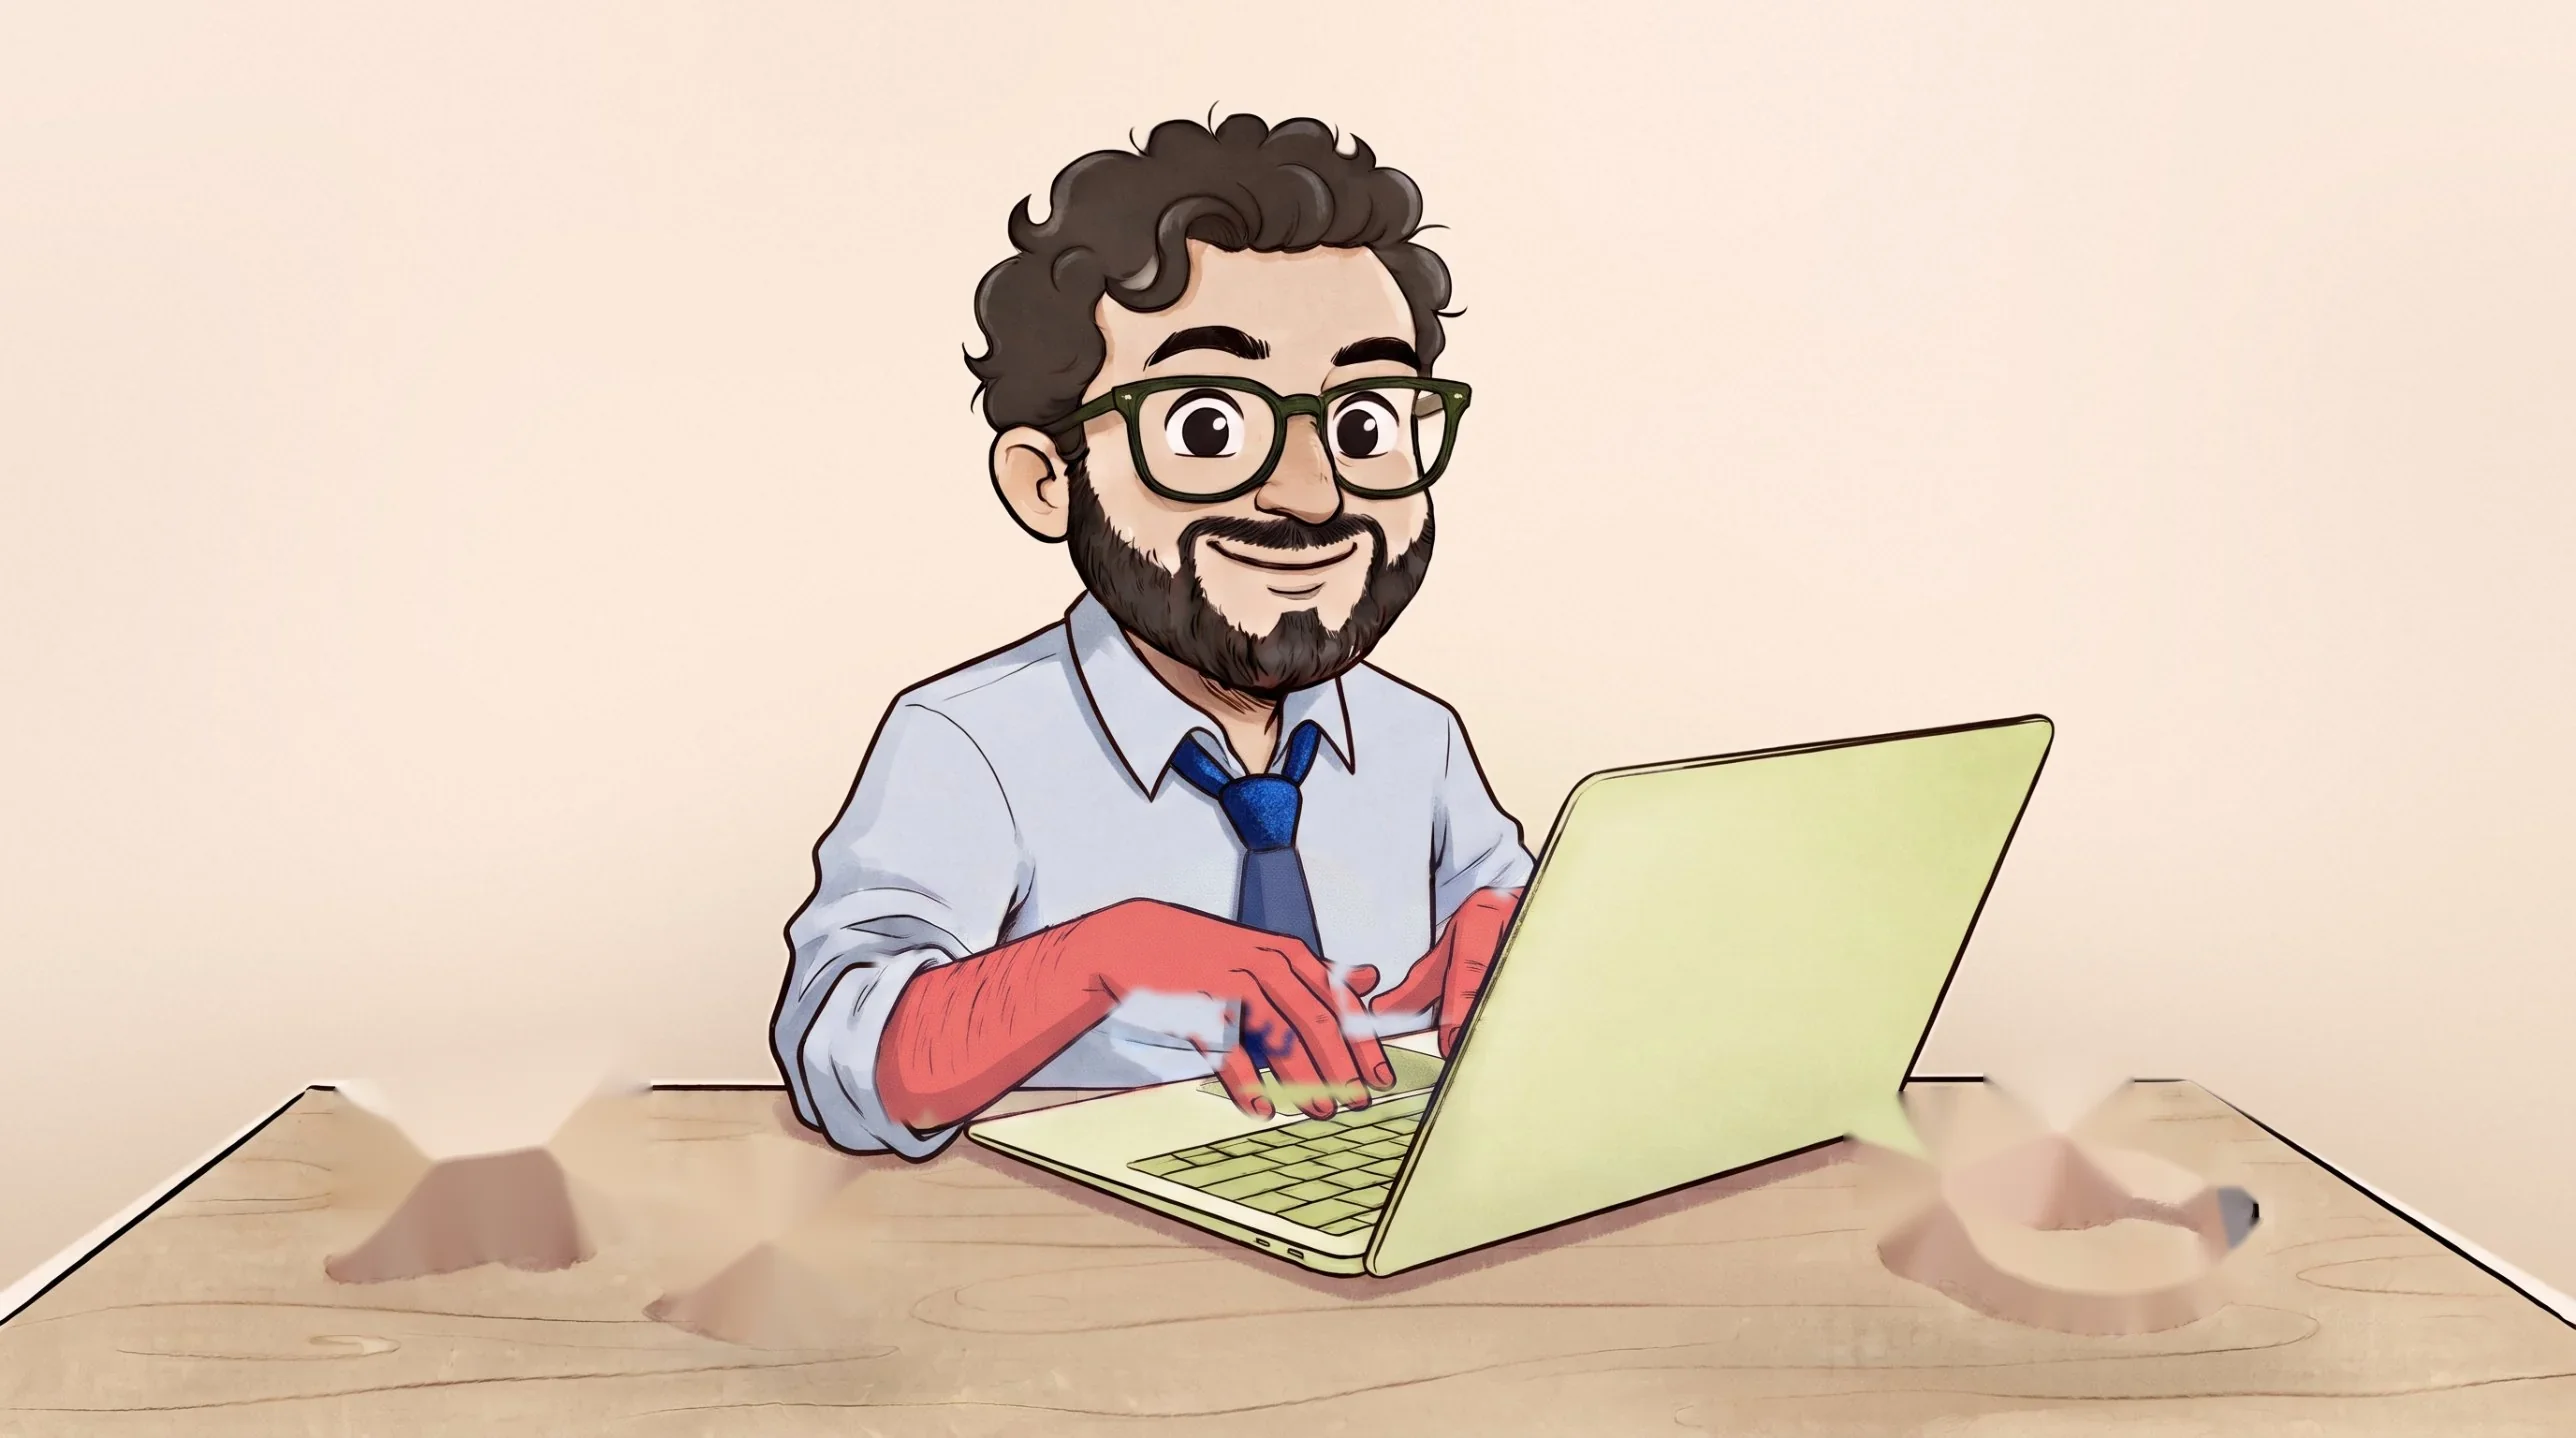
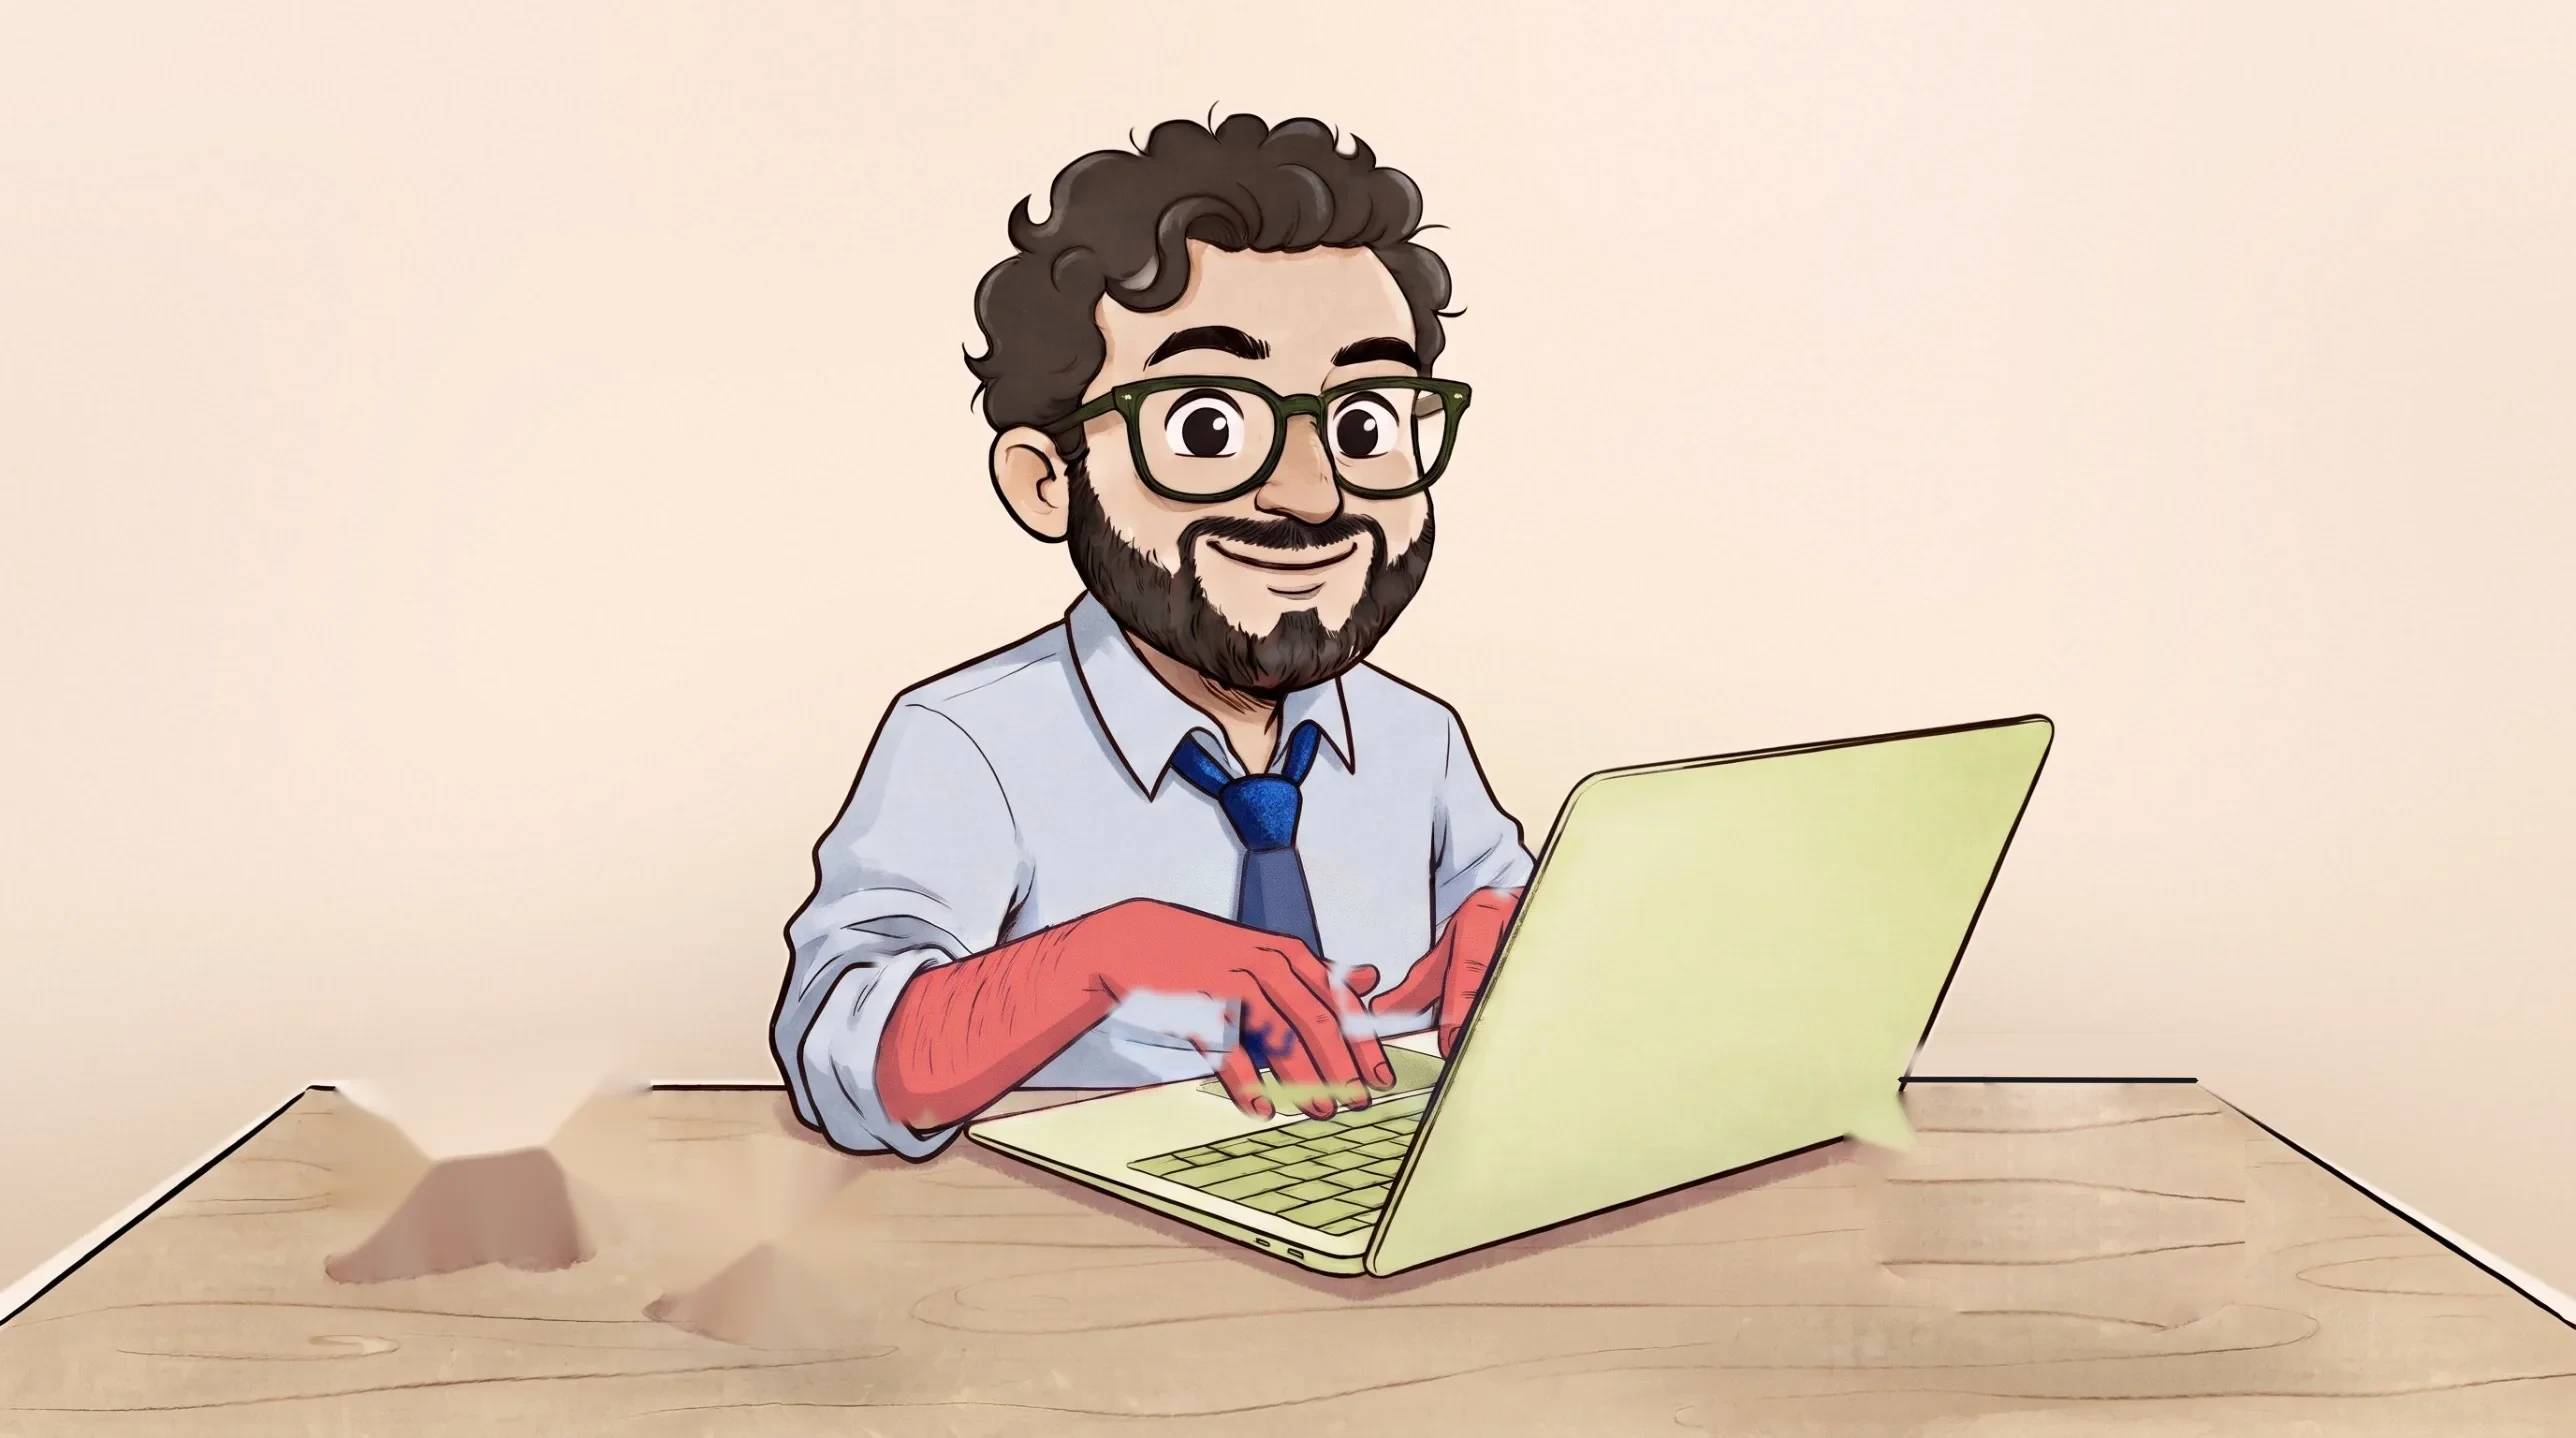
Add files via upload

Changed region(s): [[0.7143, 0.7955, 0.9006, 0.9179], [0.7764, 0.7344, 0.8385, 0.765]]

diff --git a/index.html b/index.html
@@ -118,7 +118,7 @@ dialog[open] .win{animation:pop .4s cubic-bezier(.2,1.3,.4,1)}
 @media (max-width:640px){.vid{grid-template-columns:1fr!important}}
 .poster.small .pbtn{width:52px;height:52px;margin:-26px;font-size:20px}
 .poster.small .ptitle{font-size:15px}
-.poster.small{padding:12px}.poster.small .pbtn{top:40%}
+.poster.small{padding:12px}.poster.small .pbtn{top:30%}
 .poster{position:relative;display:grid;align-content:end;gap:6px;aspect-ratio:16/9;border-radius:4px;padding:clamp(16px,3vw,28px);text-decoration:none;color:#fff;background:radial-gradient(circle at 70% 30%,var(--c) 0,color-mix(in srgb,var(--c) 35%,#120c0b) 45%,#120c0b 100%);overflow:hidden}
 .pbtn{position:absolute;top:50%;left:50%;width:76px;height:76px;margin:-38px;border-radius:50%;background:#f3d36b;color:#141312;display:grid;place-items:center;font-size:28px;transition:transform .2s}
 .poster:hover .pbtn{transform:scale(1.08)}
@@ -511,6 +511,7 @@ const DATA={
     {"g": "Mundo", "kick": "Mundo · Venezuela", "title": "El mapa de la muerte: 320 víctimas durante protestas en Venezuela en la era Maduro", "dek": "Desde que Nicolás Maduro tomó el poder, se han documentado al menos unas 320 muertes durante manifestaciones en el país.", "pub": "El Espectador", "date": "1 sep. 2024", "url": "https://www.elespectador.com/mundo/elecciones-venezuela-2024/el-mapa-de-la-muerte-320-victimas-durante-protestas-en-venezuela-en-la-era-maduro/", "cta": "Ver el mapa"},
     {"g": "Mundo", "kick": "Mundo · Venezuela · Entrevista", "title": "“Hasta el final es hasta el final”: entrevista con María Corina Machado", "dek": "Entrevista con la líder opositora venezolana sobre su campaña, la salida de Henrique Capriles y Freddy Superlano de la contienda y el “Protocolo Barinas”.", "pub": "El Espectador", "date": "", "url": "https://www.elespectador.com/mundo/america/hasta-el-final-es-hasta-el-final-entrevista-con-maria-corina-machado-noticias-hoy/", "cta": "Leer la entrevista"},
     {"g": "Mundo", "kick": "Mundo · Migración", "title": "Del infierno venezolano al limbo colombiano: los retos para los migrantes LGBT", "dek": "La comunidad LGBTI, reprimida en Venezuela, ve a Colombia como un “paraíso”. Pero la violencia con la que son recibidos desdibuja esa idea. Se necesitan políticas con enfoques diferenciales para acogerlos.", "pub": "El Espectador", "date": "7 may. 2021", "url": "https://www.elespectador.com/mundo/america/del-infierno-venezolano-al-limbo-colombiano-los-retos-para-los-migrantes-lgbt-article/", "cta": "Leer el artículo"},
+    {"g": "Mundo", "kick": "Mundo · Estados Unidos", "title": "El día que Joe Biden se subió al tren de la victoria", "dek": "Pese a la alta participación en las urnas este año, la lección más clara de la contienda electoral es que Estados Unidos no puede continuar como va. Joe Biden se perfila para ser el hombre que cure las heridas abiertas del país.", "pub": "El Espectador", "date": "7 nov. 2020", "url": "https://www.elespectador.com/mundo/america/el-dia-que-joe-biden-se-subio-al-tren-de-la-victoria-article/", "cta": "Leer el artículo"},
     {"g": "Cultura", "kick": "Magazín Cultural · Teatro", "title": "Druk en el Teatro Nacional: una mirada al alcoholismo con humor y sin sermones", "dek": "La adaptación teatral de la película danesa que ganó el Óscar llegó al Teatro Nacional de Bogotá.", "pub": "El Espectador", "date": "nov. 2026", "url": "https://www.elespectador.com/el-magazin-cultural/druk-en-el-teatro-nacional-una-mirada-al-alcoholismo-con-humor-y-sin-sermones/", "cta": "Leer la nota"},
     {"g": "Cultura", "kick": "Revista Vea · Entrevista", "title": "Queens of the Stone Age, la banda que defiende la imperfección en tiempos de IA", "dek": "En conversación con El Espectador, Jon Theodore, baterista de Queens of the Stone Age, habló de ‘Perfecth’, el disco que lanzó la banda, y de su regreso a Latinoamérica.", "pub": "Revista Vea", "date": "3 nov. 2026", "url": "https://www.elespectador.com/revista-vea/musica-y-conciertos/entrevista-queens-of-the-stone-age-la-banda-que-defiende-la-imperfeccion-en-tiempos-de-ia/", "cta": "Leer la entrevista", "quote": "La diferencia en cómo se hace la música se siente en el cuerpo, en un nivel sutil.", "quoteBy": "Jon Theodore"},
     {"g": "Cultura", "kick": "Revista Vea · Entrevista", "title": "Jack Antonoff: “El alma en la música importará más que nunca frente a la IA”", "dek": "El productor detrás de éxitos de estrellas como Sabrina Carpenter, Taylor Swift y Lana Del Rey habla de ‘Everyone for ten minutes’, el nuevo disco de Bleachers. Una oda a lo analógico y un mensaje contra la IA.", "pub": "Revista Vea", "date": "31 may. 2026", "url": "https://www.elespectador.com/revista-vea/musica-y-conciertos/entrevista-jack-antonoff-el-alma-en-la-musica-va-a-importar-mas-que-nunca-frente-a-la-ia/", "cta": "Leer la entrevista"},
@@ -583,7 +584,7 @@ const VIEWS={
     const n=DATA.fotos.n;
     const vids=DATA.video;
     dlg.innerHTML=`<div class="win w-fotos">${X()}<div class="bar"><span class="modes" role="tablist"><button type="button" role="tab" aria-selected="true" data-m="f">FOTOS</button><button type="button" role="tab" aria-selected="false" data-m="v">VIDEO</button></span><span id="fc">01 / ${String(n).padStart(2,'0')}</span></div>
-      <div class="vid" hidden><figure class="own"><video controls preload="metadata" playsinline poster="video/homeless-la.jpg" src="video/homeless-la.mp4"></video><figcaption><b>Reportaje: personas sin hogar en Los Ángeles</b><span>Camilo Gómez Forero · Video</span></figcaption></figure>${vids.map((v,i)=>`<a class="poster small" style="--c:${v.c}" href="${esc(v.url)}" target="_blank" rel="noopener"><span class="pbtn" aria-hidden="true">▶</span><span class="ptitle">${esc(v.title)}</span><span class="psrc">El Espectador · YouTube</span></a>`).join('')}</div>
+      <div class="vid" hidden>${vids.map((v,i)=>`<a class="poster small" style="--c:${v.c}" href="${esc(v.url)}" target="_blank" rel="noopener"><span class="pbtn" aria-hidden="true">▶</span><span class="ptitle">${esc(v.title)}</span><span class="psrc">El Espectador · YouTube</span></a>`).join('')}</div>
       <div class="fotos-pane">
       <div class="viewer"><img id="big" src="fotos/f1.webp" alt="Fotografía de concierto 1"><button class="nav prev" type="button" aria-label="Foto anterior">‹</button><button class="nav next" type="button" aria-label="Foto siguiente">›</button></div>
       <div class="strip" role="list">${Array.from({length:n},(_,i)=>`<button type="button" role="listitem" data-i="${i}" aria-label="Foto ${i+1}" ${i?'':'aria-current="true"'}><img src="fotos/f${i+1}.webp" alt="" loading="lazy"></button>`).join('')}</div>
